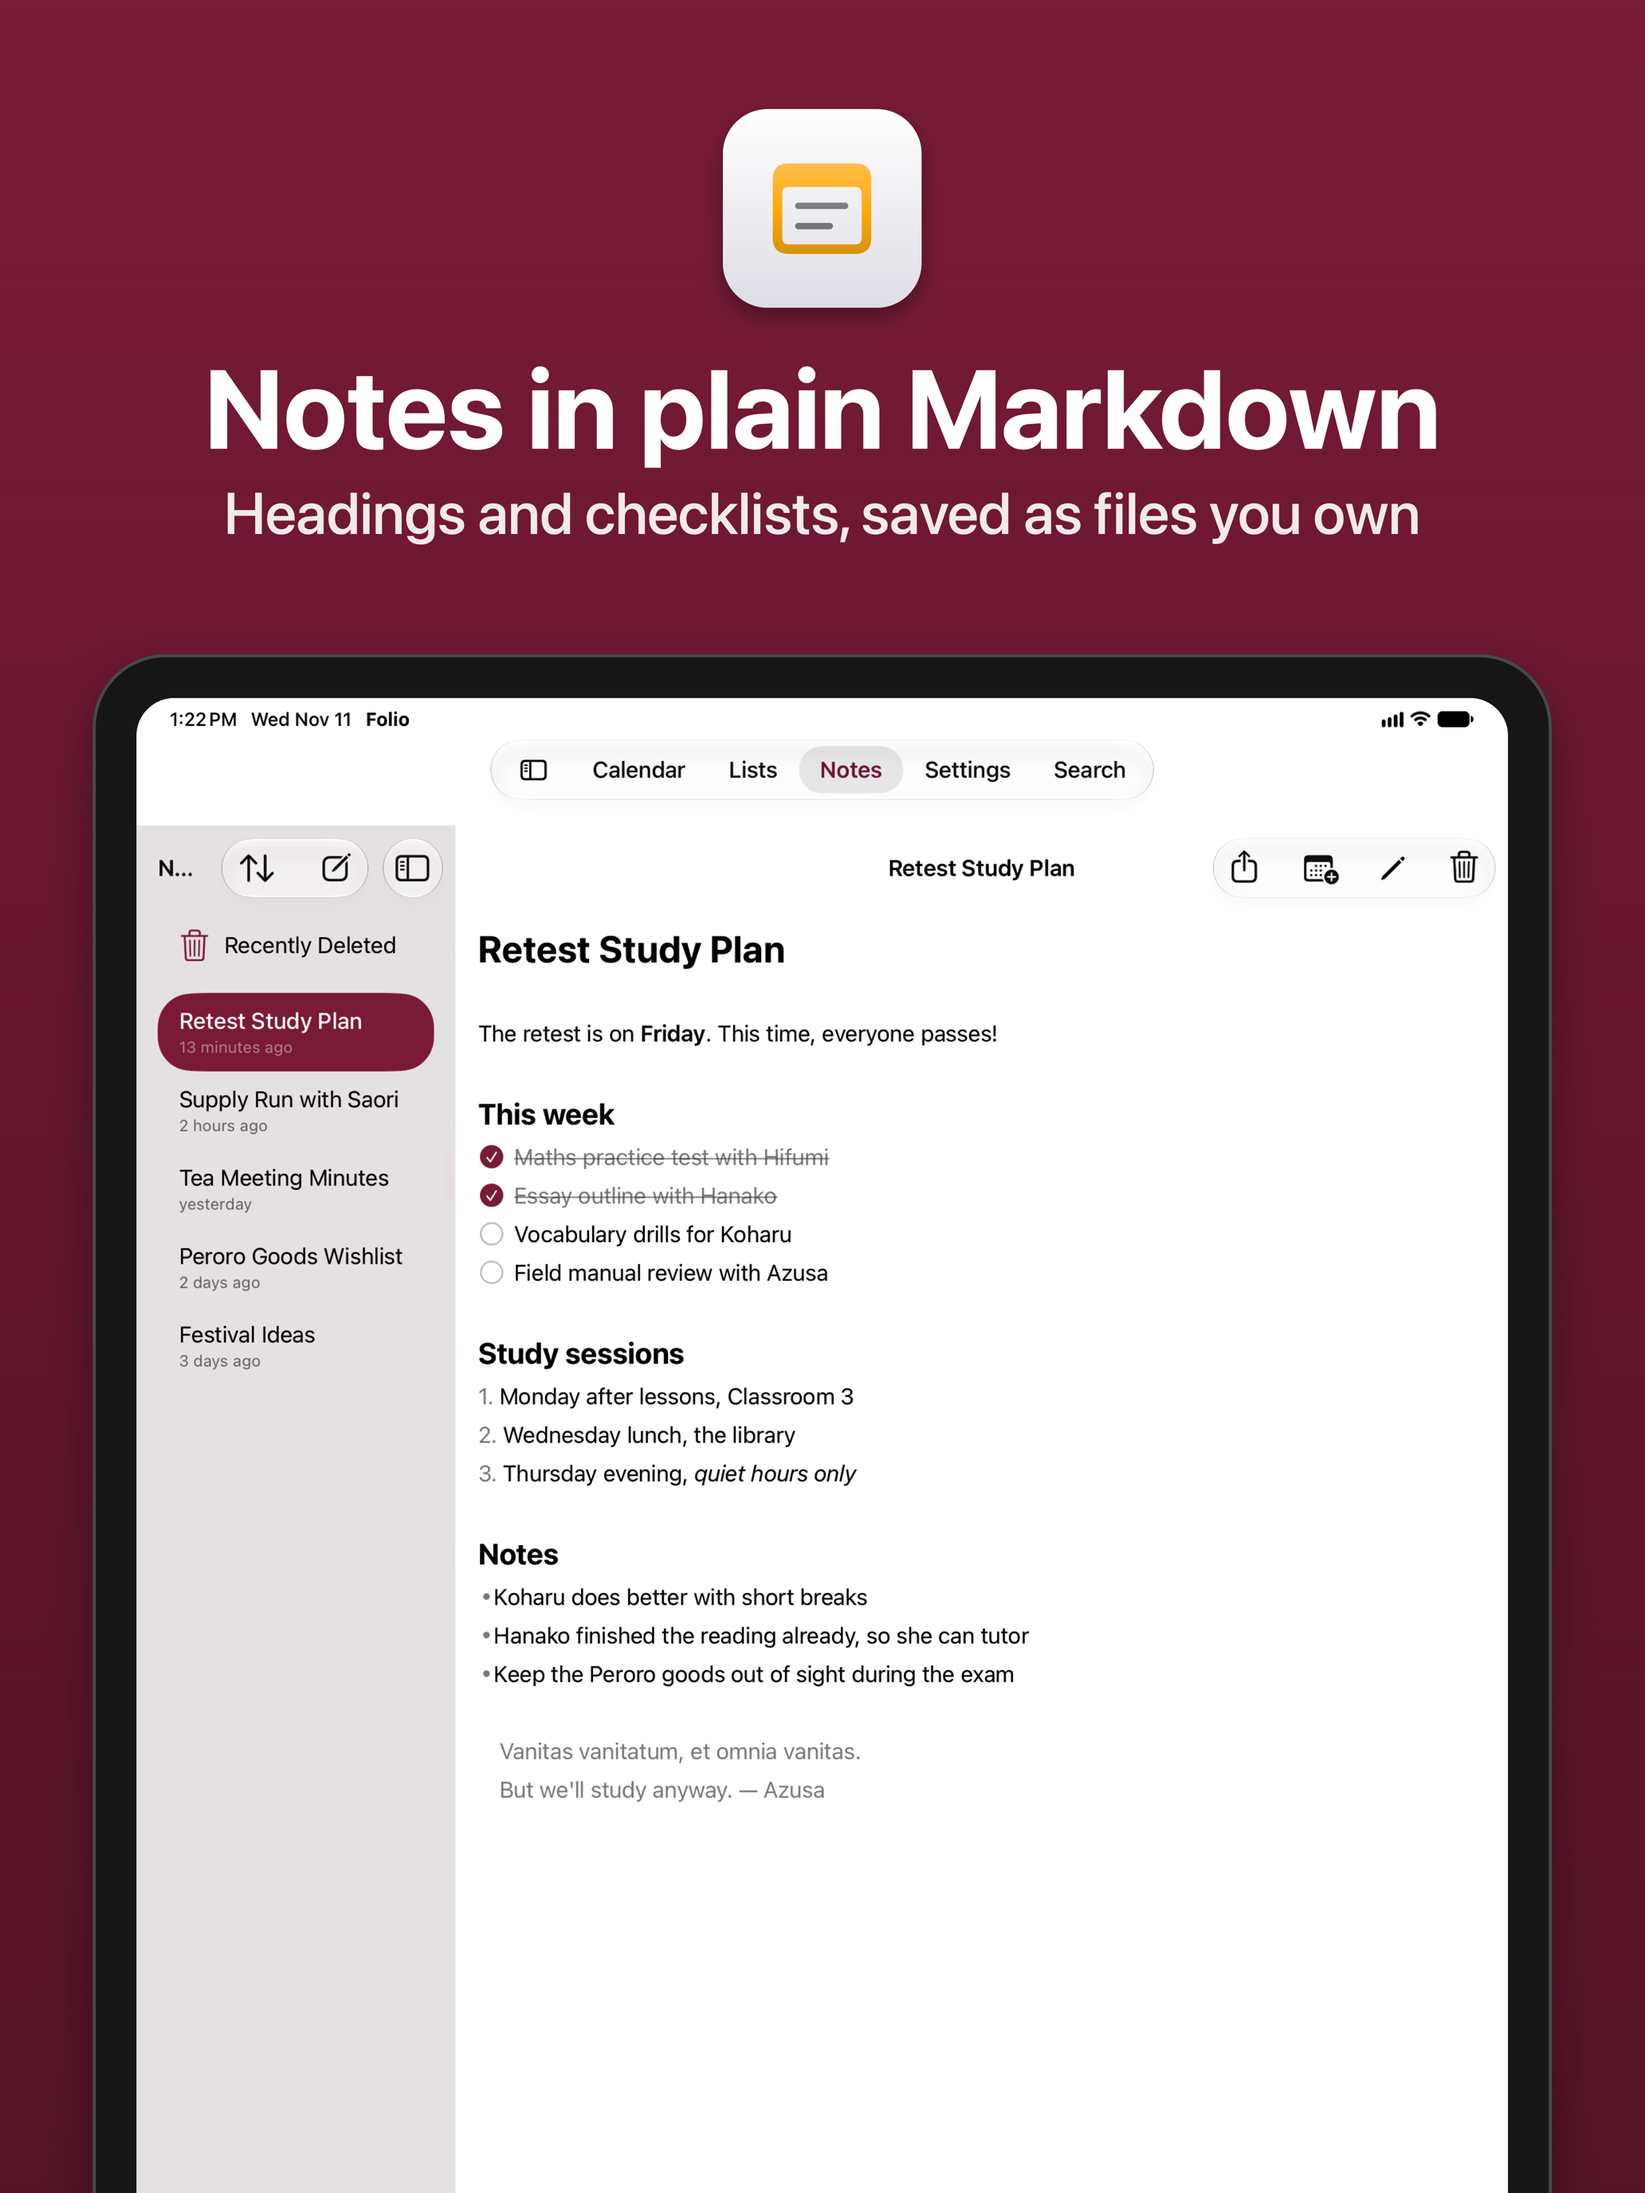
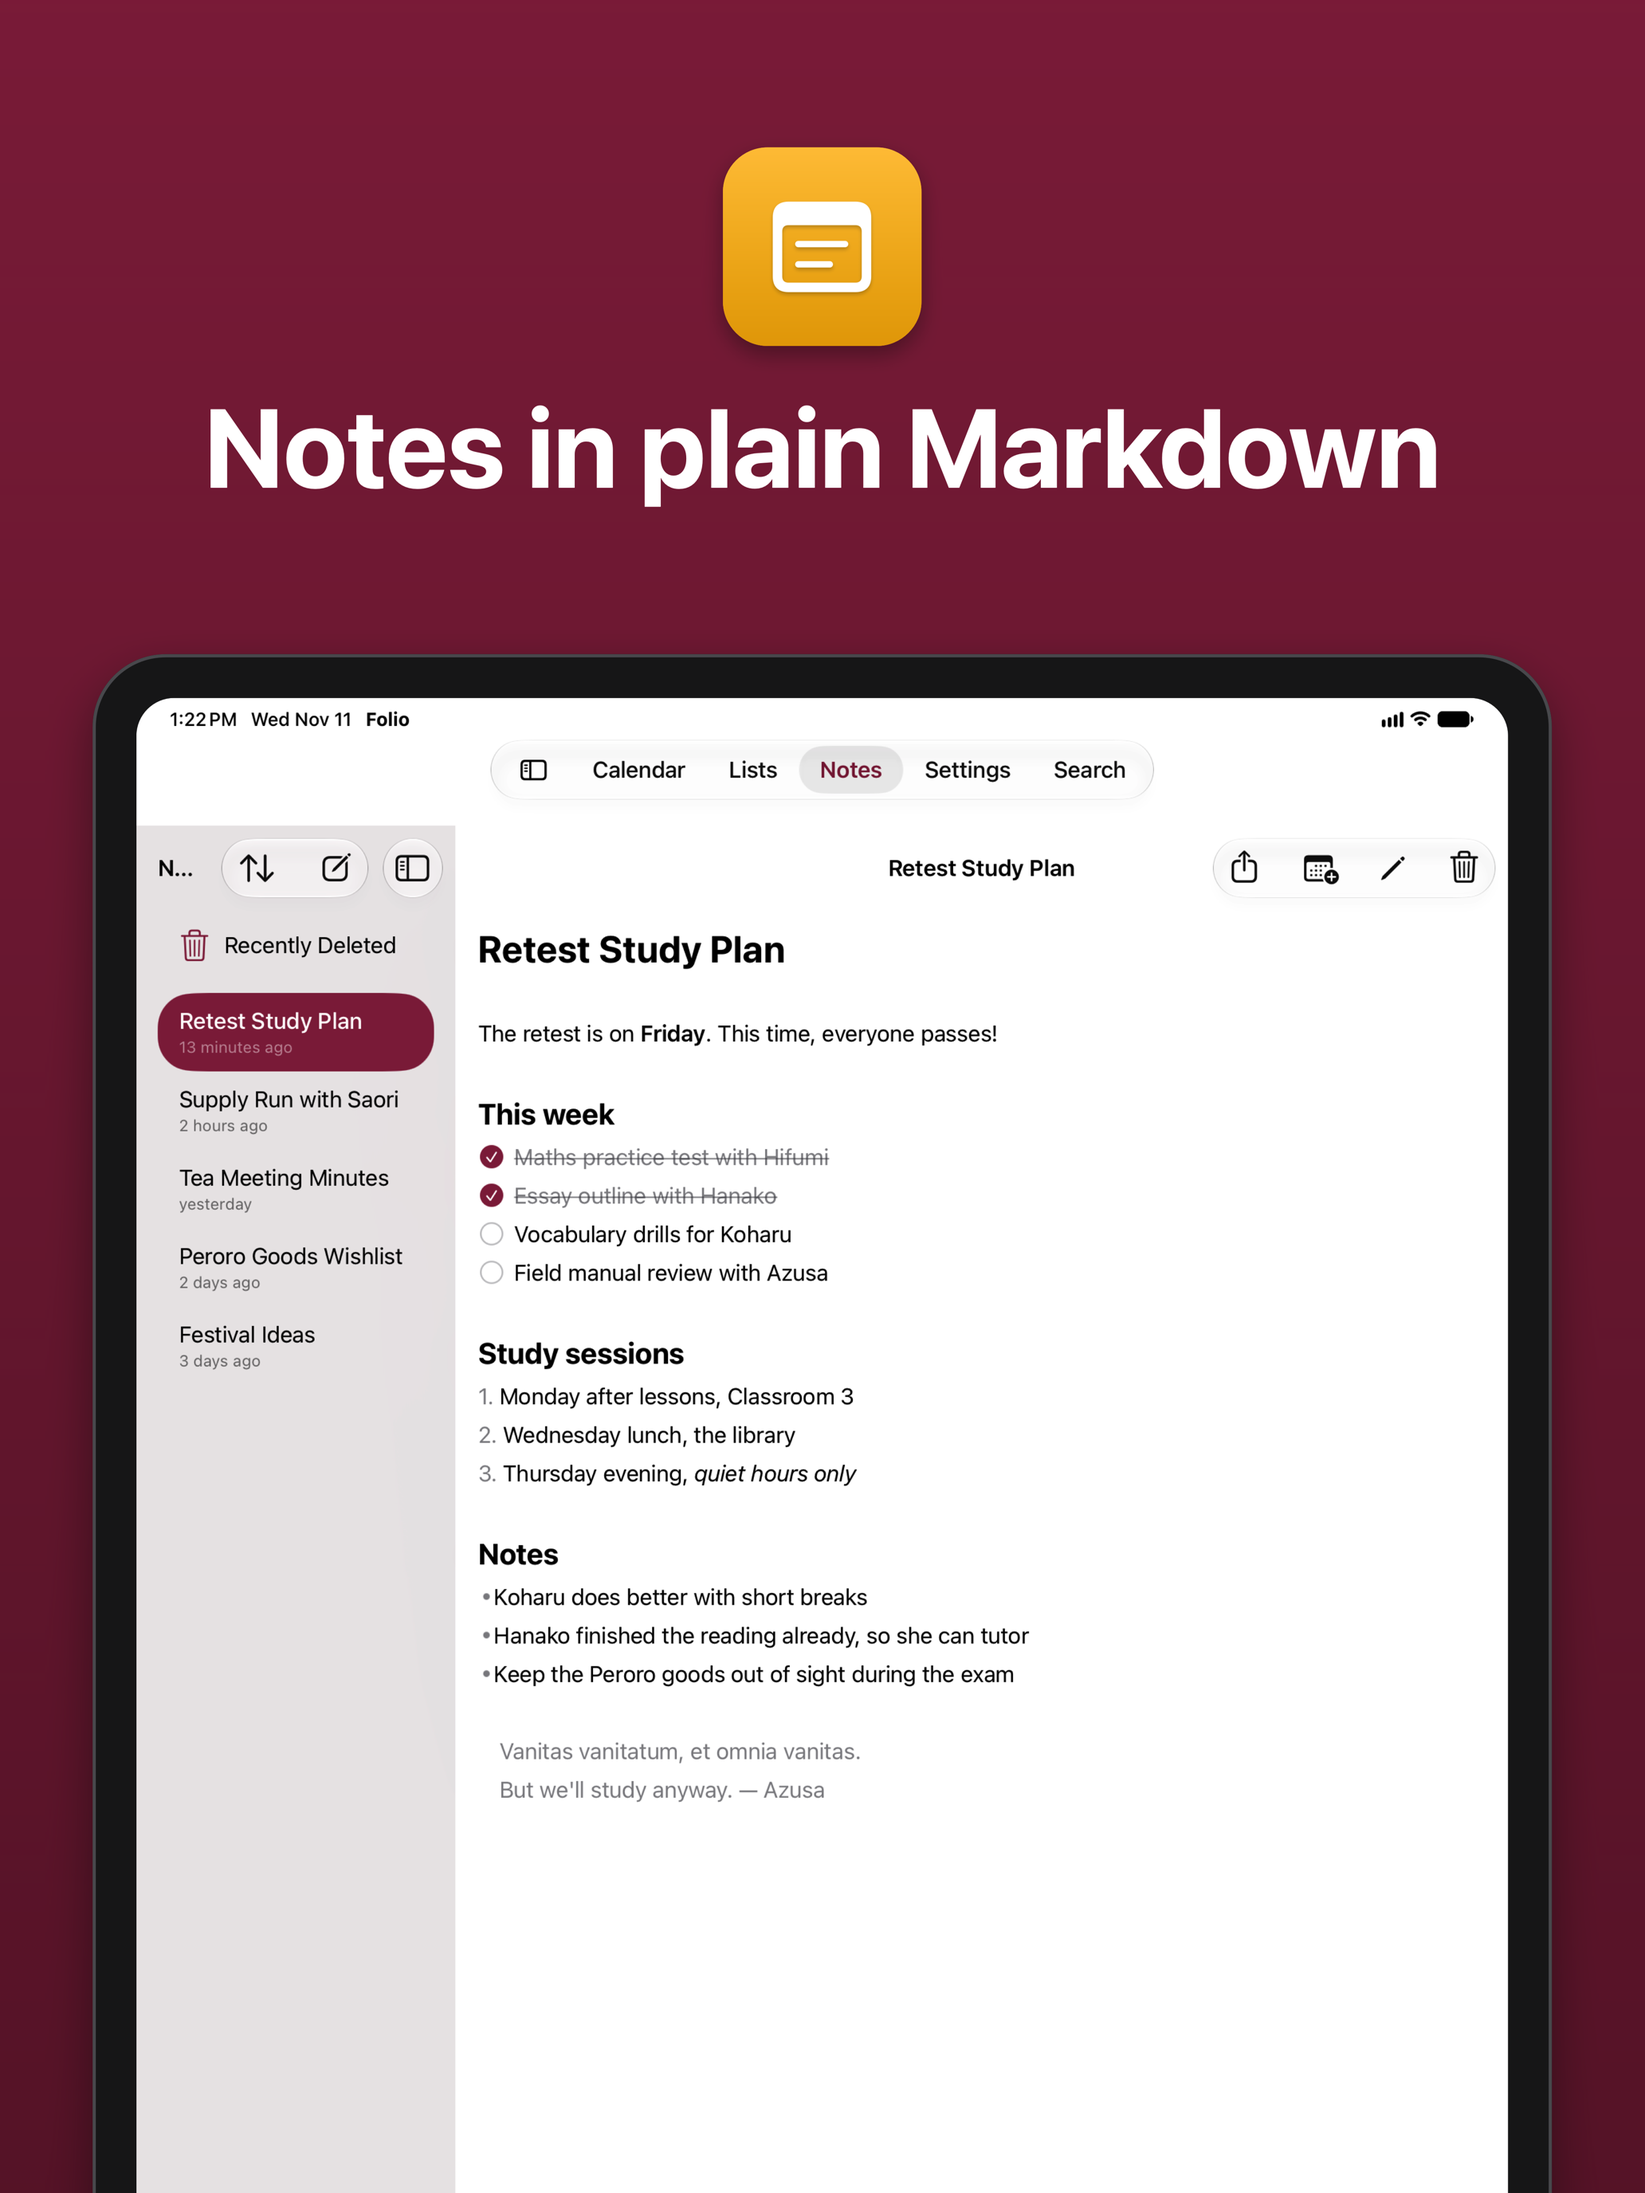
Drop the captions from the App Store screenshots

Changed region(s): [[0.124, 0.0312, 0.8992, 0.25]]

diff --git a/Assets/App Store/compose.swift b/Assets/App Store/compose.swift
@@ -40,7 +40,6 @@ enum Device: String {
 
 struct Copy {
     let header: String
-    let caption: String
 }
 
 struct Screenshot {
@@ -65,28 +64,28 @@ let gradientTop = accent
 let gradientBottom = accent.blended(withFraction: 0.3, of: .black)!
 
 let weekCopy = [
-    "en": Copy(header: "Your whole week at a glance", caption: "Events, reminders, weather and sleep, side by side"),
-    "ja": Copy(header: "1週間をひと目で", caption: "予定もリマインダーも、天気も睡眠もいっしょに"),
+    "en": Copy(header: "Your whole week at a glance"),
+    "ja": Copy(header: "1週間をひと目で"),
 ]
 let listsCopy = [
-    "en": Copy(header: "A list for everything", caption: "Your reminders, sorted and ready to check off"),
-    "ja": Copy(header: "やることをリストに", caption: "リマインダーを整理して、あとはチェックするだけ"),
+    "en": Copy(header: "A list for everything"),
+    "ja": Copy(header: "やることをリストに"),
 ]
 let notesCopy = [
-    "en": Copy(header: "Notes in plain Markdown", caption: "Headings and checklists, saved as files you own"),
-    "ja": Copy(header: "メモはMarkdownで", caption: "見出しもチェックリストも、自分のファイルに保存"),
+    "en": Copy(header: "Notes in plain Markdown"),
+    "ja": Copy(header: "メモはMarkdownで"),
 ]
 let alarmsCopy = [
-    "en": Copy(header: "Alarms right on your calendar", caption: "Set one on the day with a double tap"),
-    "ja": Copy(header: "カレンダーにアラームを", caption: "その日をダブルタップするだけで設定"),
+    "en": Copy(header: "Alarms right on your calendar"),
+    "ja": Copy(header: "カレンダーにアラームを"),
 ]
 let notificationsCopy = [
-    "en": Copy(header: "Alerts your way", caption: "Choose how each calendar and list lets you know"),
-    "ja": Copy(header: "通知は思いのままに", caption: "カレンダーやリストごとに通知の仕方を選べる"),
+    "en": Copy(header: "Alerts your way"),
+    "ja": Copy(header: "通知は思いのままに"),
 ]
 let countdownCopy = [
-    "en": Copy(header: "Count down to what's next", caption: "A Live Activity on your Lock Screen"),
-    "ja": Copy(header: "次の予定までカウントダウン", caption: "ロック画面のライブアクティビティで"),
+    "en": Copy(header: "Count down to what's next"),
+    "ja": Copy(header: "次の予定までカウントダウン"),
 ]
 
 let iPhoneScreenshots = [
@@ -106,8 +105,8 @@ let macScreenshots = [
         name: "01-week",
         icon: .calendar,
         copy: [
-            "en": Copy(header: "A planner for your Mac", caption: "Events, reminders and the weather in one window"),
-            "ja": Copy(header: "Macのためのプランナー", caption: "予定もリマインダーも天気も、ひとつのウインドウに"),
+            "en": Copy(header: "A planner for your Mac"),
+            "ja": Copy(header: "Macのためのプランナー"),
         ]
     ),
     Screenshot(name: "02-lists", icon: .reminders, copy: listsCopy),
@@ -368,18 +367,14 @@ func drawWindow(_ raw: NSImage, in rect: NSRect) {
     NSGraphicsContext.current?.restoreGraphicsState()
 }
 
-/// The header and caption across the top, and the window below them,
+/// The icon and header across the top, and the window below them,
 /// with a second window, such as Settings, overlapping its corner.
 func drawMac(copy: Copy, icon: Icon, raw: NSImage, extra: NSImage?, canvasSize: NSSize) {
     let textWidth = canvasSize.width - 240
     let header = Line(copy.header, size: 120, weight: .bold, color: .white, maxWidth: textWidth)
-    let caption = Line(
-        copy.caption, size: 60, weight: .medium, color: NSColor.white.withAlphaComponent(0.92), maxWidth: textWidth
-    )
-    let captionGap: CGFloat = 8
     let iconSize: CGFloat = 170
     let iconGap: CGFloat = 50
-    let inkHeight = iconSize + iconGap + header.size.height + captionGap + caption.inkBottom - header.inkTop
+    let inkHeight = iconSize + iconGap + header.inkBottom - header.inkTop
     let textBand = inkHeight + 2 * 80
     let bottomMargin: CGFloat = 100
 
@@ -401,7 +396,6 @@ func drawMac(copy: Copy, icon: Icon, raw: NSImage, extra: NSImage?, canvasSize: 
     icon.draw(size: iconSize, top: inkTop.rounded(), canvasWidth: canvasSize.width)
     let headerTop = (inkTop - iconSize - iconGap + header.inkTop).rounded()
     header.draw(top: headerTop, canvasWidth: canvasSize.width)
-    caption.draw(top: headerTop - header.size.height - captionGap, canvasWidth: canvasSize.width)
 
     drawWindow(raw, in: windowRect)
     if let extra, let extraSize {
@@ -438,18 +432,13 @@ func compose(_ shot: Screenshot, language: String, device: Device) -> Bool {
         return write(image, canvasSize: canvasSize, shot: shot, language: language, device: device)
     }
 
-    // One-line header and caption. AppKit's origin is bottom-left.
+    // A one-line header. AppKit's origin is bottom-left.
     let textWidth = canvasSize.width - 96 * s
     let header = Line(copy.header, size: 84 * s, weight: .bold, color: .white, maxWidth: textWidth)
-    let caption = Line(
-        copy.caption, size: 44 * s, weight: .medium,
-        color: NSColor.white.withAlphaComponent(0.92), maxWidth: textWidth
-    )
-    let captionGap = 4 * s
     let iconSize = 150 * s
     let iconGap = 44 * s
-    // From the top of the icon to the bottom of the caption's ink.
-    let inkHeight = iconSize + iconGap + header.size.height + captionGap + caption.inkBottom - header.inkTop
+    // From the top of the icon to the bottom of the header's ink.
+    let inkHeight = iconSize + iconGap + header.inkBottom - header.inkTop
 
     let aspect = deviceAspect(device)
     var deviceSize: NSSize
@@ -481,7 +470,6 @@ func compose(_ shot: Screenshot, language: String, device: Device) -> Bool {
     shot.icon.draw(size: iconSize, top: inkTop.rounded(), canvasWidth: canvasSize.width)
     let headerTop = (inkTop - iconSize - iconGap + header.inkTop).rounded()
     header.draw(top: headerTop, canvasWidth: canvasSize.width)
-    caption.draw(top: headerTop - header.size.height - captionGap, canvasWidth: canvasSize.width)
 
     let deviceRect = NSRect(
         x: ((canvasSize.width - deviceSize.width) / 2).rounded(),
